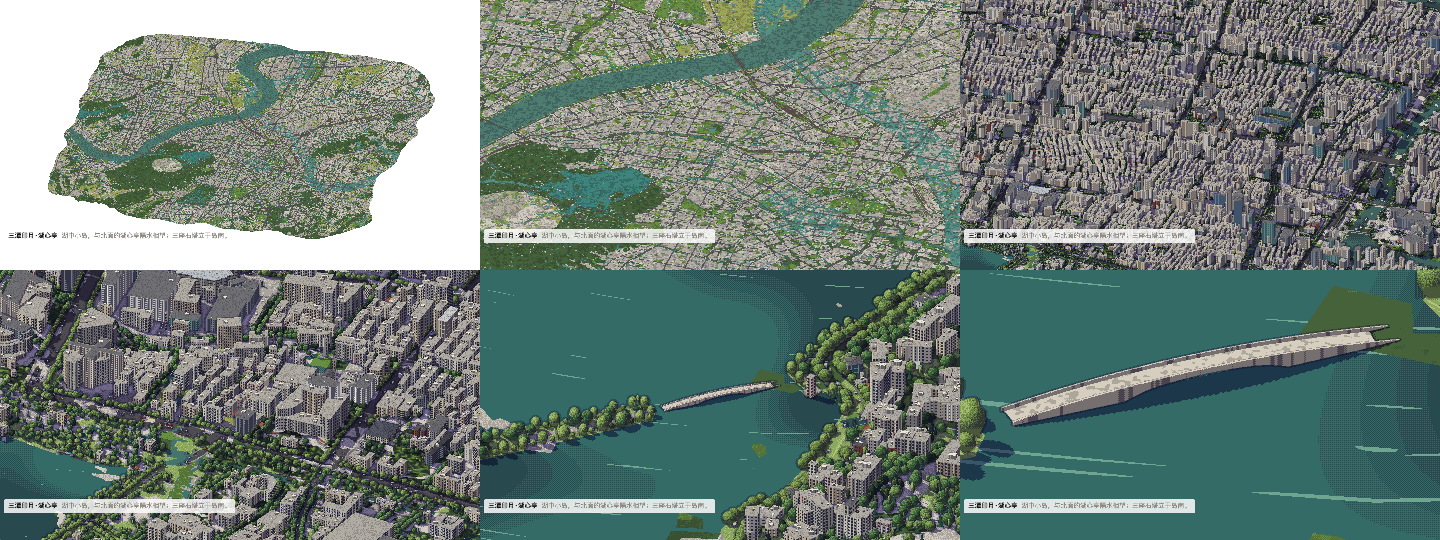
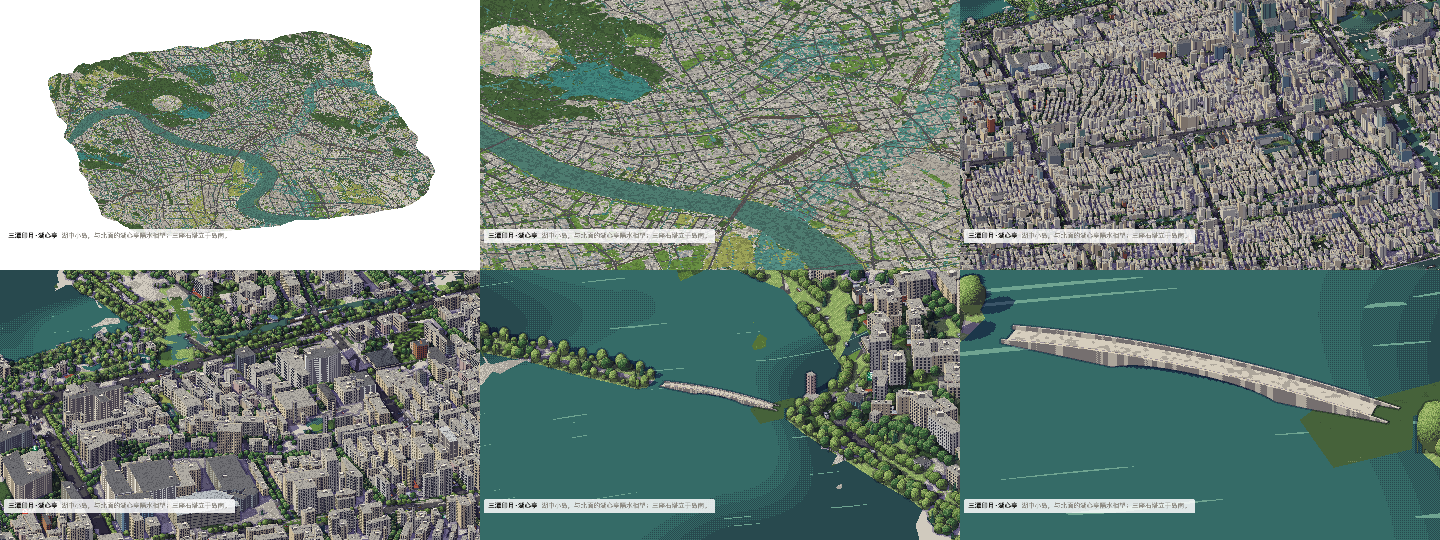
地面镜像修正（D085）：相机的地面项符号反了，N-S 翻转校正；D084 勘误（指南针改回原式）；取景补偿同步；1-05 标准照；测试连带修

diff --git a/app/src/ui.js b/app/src/ui.js
@@ -101,7 +101,7 @@ export function createInterface(app) {
   // it (place); when the camera turns, that spot turns with the picture, so it is found again.
   function follow() {
     if (!anchor) return false;
-    const { x, y } = place(anchor, camera.pitch);
+    const { x, y } = place(anchor, camera.pitch, true);
     camera.x = x;
     camera.y = y;
     return true;
@@ -162,23 +162,26 @@ export function createInterface(app) {
   // Where to fly to for a landmark: a third closer than the table says, and with the landmark's
   // middle, not its foot, at the centre of the frame: the camera centre moves towards the viewer by as
   // much of the ground as the landmark's height takes up on the page.
-  function place(landmark, pitch = Math.PI / 6) {
+  function place(landmark, pitch = Math.PI / 6, keepYaw = false) {
     const focus = landmark.focus ?? 8;
     // the model stands on the ground (bedded into it as the renderer places it), so its middle is that much
     // above the sea; the ground's height is the bake's, good before the tile under it has loaded
     const height = (landmark.ground ?? 0) - (landmark.bed ?? 2) + focus;
     // where the middle of the frame lies from the landmark, in metres along the screen's two axes (across to
     // the right, up the page): nothing for most; a place whose view holds more than the landmark gives it in
-    // the table. v grows down the page, so both the offset and the height move the camera up the page.
+    // the table. The model's middle stands `height` up the page from its ground point (project draws the
+    // ground's far axis up the page), so the camera moves that much farther along it, plus the offset.
     // A landmark may hold a yaw of its own — its standard portrait: the camera stands on that side of it and
-    // the flight turns to look along it. The rest keep the direction the visitor was looking in.
+    // the flight turns to look along it. The rest keep the direction the visitor was looking in. When the
+    // map only follows (a pan or a turn), the visitor's yaw is kept even for a portrait: the standard shot
+    // is where a flight arrives, not where the visitor is held.
     const [du, up] = landmark.view.offset ?? [0, 0];
-    const dv = -up - height * Math.cos(pitch) / Math.sin(pitch);
+    const dv = up + height * Math.cos(pitch) / Math.sin(pitch);
     const portrait = landmark.view.yaw;
-    const yaw = portrait === undefined ? camera.yaw : portrait;
+    const yaw = portrait === undefined || keepYaw ? camera.yaw : portrait;
     const rx = (du + dv) * Math.SQRT1_2, ry = (dv - du) * Math.SQRT1_2;
     const pose = { x: landmark.x + rx * Math.cos(yaw) + ry * Math.sin(yaw), y: landmark.y - rx * Math.sin(yaw) + ry * Math.cos(yaw), scale: Math.min(4, landmark.view.scale * 1.3), pitch };
-    if (portrait !== undefined) pose.yaw = portrait;
+    if (portrait !== undefined && !keepYaw) pose.yaw = portrait;
     return pose;
   }
 
@@ -321,13 +324,13 @@ export function createInterface(app) {
     for (let k = 0; k < points.length; k += 3) {
       if (!Number.isFinite(points[k])) continue;                         // a break between two pieces of a course
       const { u, v } = camera.about(centre.x, centre.y, points[k], points[k + 1]);
-      const s = v * camera.sinPitch - points[k + 2] * camera.cosPitch;   // where it comes on the page, before the zoom
+      const s = -(v * camera.sinPitch + points[k + 2] * camera.cosPitch);   // where it comes on the page, before the zoom
       u0 = Math.min(u0, u); u1 = Math.max(u1, u); s0 = Math.min(s0, s); s1 = Math.max(s1, s);
     }
     const [least, most] = result.line ? [0.004, 1.6] : [0.25, 3];
     const scale = Math.min(most, Math.max(least, Math.min(0.86 * camera.width / (u1 - u0), 0.8 * camera.height / (s1 - s0))));
     // the middle of its extent, not of its own point, at the middle of the frame: the camera moves by that on the page's two axes
-    const du = (u0 + u1) / 2, dv = (s0 + s1) / 2 / camera.sinPitch;
+    const du = (u0 + u1) / 2, dv = -(s0 + s1) / 2 / camera.sinPitch;
     const rx = (du + dv) * Math.SQRT1_2, ry = (dv - du) * Math.SQRT1_2;
     return { x: centre.x + rx * camera.cos + ry * camera.sin, y: centre.y - rx * camera.sin + ry * camera.cos, scale };
   }
@@ -395,8 +398,8 @@ export function createInterface(app) {
     readout.textContent = `${tier} · 1 像素 ≈ ${size} · ${pending ? '载入中' : '就绪'}`;
     // which way is north on the page: the direction of the map's north, seen through the camera
     const a = camera.axes(0, 0), b = camera.axes(0, 1);
-    // 屏幕的 y 向下长（project() 里 v·sinPitch 加在 sy 上），所以北在画面上的投影 dy 不取负
-    const dx = b.u - a.u, dy = (b.v - a.v) * camera.sinPitch, length = Math.hypot(dx, dy) || 1;
+    // 北在画面上的方向：u 直接是屏幕横向，v 走 sy = -v·sinPitch（project），屏幕 y 向下长，故 dy 取负
+    const dx = b.u - a.u, dy = -(b.v - a.v) * camera.sinPitch, length = Math.hypot(dx, dy) || 1;
     compass.clearRect(0, 0, 44, 44);
     compass.strokeStyle = getComputedStyle(document.body).getPropertyValue('--muted');
     compass.fillStyle = getComputedStyle(document.body).getPropertyValue('--ink');

diff --git a/app/src/gl/city-camera.js b/app/src/gl/city-camera.js
@@ -41,13 +41,16 @@ export class CityCamera {
     return { u: (rx - ry) * SQRT1_2, v: (rx + ry) * SQRT1_2 };
   }
 
-  // -> { sx, sy } in low-resolution pixels from the top-left corner, and d: engine depth (larger is nearer)
+  // -> { sx, sy } in low-resolution pixels from the top-left corner, and d: engine depth (larger is nearer).
+  // The ground's v (the camera's far axis, the north-east diagonal at yaw 0) runs UP the page: the farther
+  // along it a point stands, the higher on the screen, the way the ground recedes towards the horizon of a
+  // tilted view. Heights still rise up the page, and the depth of the far axis runs the other way.
   project(x, y, z) {
     const { u, v } = this.axes(x, y);
     return {
       sx: this.width / 2 + u * this.scale,
-      sy: this.height / 2 + (v * this.sinPitch - z * this.cosPitch) * this.scale,
-      d: v * this.cosPitch + z * this.sinPitch,
+      sy: this.height / 2 - (v * this.sinPitch + z * this.cosPitch) * this.scale,
+      d: z * this.sinPitch - v * this.cosPitch,
     };
   }
 
@@ -58,24 +61,24 @@ export class CityCamera {
 
   // the same for another zoom, which is how the point under the cursor is kept in place
   unprojectAt(sx, sy, scale, z = 0) {
-    const u = (sx - this.width / 2) / scale, v = ((sy - this.height / 2) / scale + z * this.cosPitch) / this.sinPitch;
+    const u = (sx - this.width / 2) / scale, v = -(((sy - this.height / 2) / scale + z * this.cosPitch) / this.sinPitch);
     const rx = (u + v) * SQRT1_2, ry = (v - u) * SQRT1_2, c = this.cos, s = this.sin;
     return { x: this.x + rx * c + ry * s, y: this.y - rx * s + ry * c };
   }
 
   // screen position of the world origin, for shaders that project from absolute coordinates
   origin() {
-    const { u, v } = this.axes(0, 0);
-    return [this.width / 2 - u * this.scale, this.height / 2 - v * this.scale];
+    const { sx, sy } = this.project(0, 0, 0);
+    return [sx, sy];
   }
 
   // Engine depth is mapped linearly onto the depth buffer; the range is fitted to what this zoom can see.
-  // A screen point at height z lies at v = ((sy - H/2) / scale + z cos(pitch)) / sin(pitch), so the
+  // A screen point at height z lies at v = -((sy - H/2) / scale + z cos(pitch)) / sin(pitch), so the
   // farthest thing is the ground on the top row and the nearest is the top of the tallest building on
-  // the bottom row, which is farther along by 1 / sin(pitch) times its height in this measure.
+  // the bottom row, which stands sin(pitch) times its height nearer the camera in this measure.
   depthRange(tallest = 420) {
     const ground = this.height / (2 * this.scale * this.sinPitch) * this.cosPitch;   // depth of the ground on the top and bottom rows
-    return [ground + tallest / this.sinPitch, -ground];
+    return [ground + tallest * this.sinPitch, -ground];
   }
 
   // how much the depth changes per pixel row on a flat floor (the reference's GRADIENT_Y)
@@ -111,12 +114,12 @@ uniform vec2 uDepth;    // nearest and farthest engine depth
 vec3 project(vec3 q) {
   float rx = q.x * uCentre.z - q.y * uCentre.w, ry = q.x * uCentre.w + q.y * uCentre.z;
   float u = (rx - ry) * 0.7071067811865476, v = (rx + ry) * 0.7071067811865476;
-  return vec3(uFrame.x * 0.5 + u * uTilt.z, uFrame.y * 0.5 + (v * uTilt.x - q.z * uTilt.y) * uTilt.z, v * uTilt.y + q.z * uTilt.x);
+  return vec3(uFrame.x * 0.5 + u * uTilt.z, uFrame.y * 0.5 - (v * uTilt.x + q.z * uTilt.y) * uTilt.z, q.z * uTilt.x - v * uTilt.y);
 }
 float depthOf(float d) { return clamp((uDepth.x - d) / (uDepth.x - uDepth.y), 0.0, 1.0); }
 vec4 clip(vec3 s) { return vec4(s.x / uFrame.x * 2.0 - 1.0, 1.0 - s.y / uFrame.y * 2.0, depthOf(s.z), 1.0); }
 vec2 unproject(float sx, float sy, float z) {
-  float u = (sx - uFrame.x * 0.5) / uTilt.z, v = ((sy - uFrame.y * 0.5) / uTilt.z + z * uTilt.y) / uTilt.x;
+  float u = (sx - uFrame.x * 0.5) / uTilt.z, v = -(((sy - uFrame.y * 0.5) / uTilt.z + z * uTilt.y) / uTilt.x);
   return vec2((u + v) * 0.7071067811865476, (v - u) * 0.7071067811865476);
 }
 

diff --git a/app/src/render/style.js b/app/src/render/style.js
@@ -10,13 +10,15 @@ export const NEAREST_DEPTH = 1000, FARTHEST_DEPTH = -1000;
 const EDGE_PX = 2.8; // shadeEdges() calls an edge where the depth jumps by 0.28 units, i.e. 2.8 pixels at 10 px per unit
 export const MODES = { plain: 0, rough: 1, gloss: 2, solid: 3 };
 
-// pixel-plays' project() in double precision, for things placed on the CPU (water streaks)
+// pixel-plays' project() in double precision, for things placed on the CPU (water streaks). One departure
+// from the reference: the ground's far axis runs up the page (the way the ground recedes towards the
+// horizon of a tilted view), not down it — the reference's tiny island read fine either way, a real city does not.
 export function project(cam, x, y, z, W, H) {
   const yawC = Math.cos(cam.yaw), yawS = Math.sin(cam.yaw), sinP = Math.sin(cam.pitch), cosP = Math.cos(cam.pitch);
   const rx = x * yawC - y * yawS, ry = x * yawS + y * yawC;
   const u = (rx - ry) / Math.SQRT2, v = (rx + ry) / Math.SQRT2;
   const OX = W / 2 + (cam.panX || 0), OY = H / 2 + (cam.originY || 0) * cam.scale / 10 + (cam.panY || 0);
-  return { sx: OX + u * cam.scale, sy: OY + (v * sinP - z * cosP) * cam.scale, d: v * cosP + z * sinP };
+  return { sx: OX + u * cam.scale, sy: OY - (v * sinP + z * cosP) * cam.scale, d: z * sinP - v * cosP };
 }
 
 export const toUnit = c => [c[0] / 255, c[1] / 255, c[2] / 255];

diff --git a/app/src/gl/shaders.js b/app/src/gl/shaders.js
@@ -17,17 +17,17 @@ vec3 project(vec3 p) {
   float rx = p.x * uAngles.x - p.y * uAngles.y;
   float ry = p.x * uAngles.y + p.y * uAngles.x;
   float u = (rx - ry) * R2I, v = (rx + ry) * R2I;
-  return vec3(uOrigin.x + u * uView.w, uOrigin.y + (v * uAngles.z - p.z * uAngles.w) * uView.w, v * uAngles.w + p.z * uAngles.z);
+  return vec3(uOrigin.x + u * uView.w, uOrigin.y - (v * uAngles.z + p.z * uAngles.w) * uView.w, p.z * uAngles.z - v * uAngles.w);
 }
 // unproject(): world point under a screen position on the flat ground z = 0
 vec2 unproject(float sx, float sy) {
-  float u = (sx - uOrigin.x) / uView.w, v = (sy - uOrigin.y) / (uView.w * uAngles.z);
+  float u = (sx - uOrigin.x) / uView.w, v = -(sy - uOrigin.y) / (uView.w * uAngles.z);
   float rx = (u + v) * R2I, ry = (v - u) * R2I;
   return vec2(rx * uAngles.x + ry * uAngles.y, -rx * uAngles.y + ry * uAngles.x);
 }
 float groundDepth(vec2 w) {
   float rx = w.x * uAngles.x - w.y * uAngles.y, ry = w.x * uAngles.y + w.y * uAngles.x;
-  return (rx + ry) * R2I * uAngles.w;
+  return -(rx + ry) * R2I * uAngles.w;
 }
 float depthOf(float d) { return clamp((uDepth.x - d) / (uDepth.x - uDepth.y), 0.0, 1.0); }
 float depthToD(float z) { return uDepth.x - z * (uDepth.x - uDepth.y); }

diff --git a/app/src/gl/city-common.js b/app/src/gl/city-common.js
@@ -17,12 +17,12 @@ uniform vec2 uDepth;    // nearest and farthest engine depth
 vec3 project(vec3 q) {
   float rx = q.x * uCentre.z - q.y * uCentre.w, ry = q.x * uCentre.w + q.y * uCentre.z;
   float u = (rx - ry) * 0.7071067811865476, v = (rx + ry) * 0.7071067811865476;
-  return vec3(uFrame.x * 0.5 + u * uTilt.z, uFrame.y * 0.5 + (v * uTilt.x - q.z * uTilt.y) * uTilt.z, v * uTilt.y + q.z * uTilt.x);
+  return vec3(uFrame.x * 0.5 + u * uTilt.z, uFrame.y * 0.5 - (v * uTilt.x + q.z * uTilt.y) * uTilt.z, q.z * uTilt.x - v * uTilt.y);
 }
 float depthOf(float d) { return clamp((uDepth.x - d) / (uDepth.x - uDepth.y), 0.0, 1.0); }
 vec4 clip(vec3 s) { return vec4(s.x / uFrame.x * 2.0 - 1.0, 1.0 - s.y / uFrame.y * 2.0, depthOf(s.z), 1.0); }
 vec2 unproject(float sx, float sy, float z) {
-  float u = (sx - uFrame.x * 0.5) / uTilt.z, v = ((sy - uFrame.y * 0.5) / uTilt.z + z * uTilt.y) / uTilt.x;
+  float u = (sx - uFrame.x * 0.5) / uTilt.z, v = -(((sy - uFrame.y * 0.5) / uTilt.z + z * uTilt.y) / uTilt.x);
   return vec2((u + v) * 0.7071067811865476, (v - u) * 0.7071067811865476);
 }
 

diff --git a/app/src/main.js b/app/src/main.js
@@ -307,7 +307,7 @@ async function boot() {
 
   // for tests and the console
   window.__city = {
-    camera, renderer, world, index, gl, ui,
+    camera, renderer, world, manifest: index, gl, ui,
     landmarks, city,
     renderOnce: () => { renderer.present(renderer.render(world)); dirty = false; },
     // how much of a landmark is in the frame and how much of it is hidden behind other things

diff --git a/docs/DECISIONS.md b/docs/DECISIONS.md
@@ -266,4 +266,6 @@
 
 - **D083 2026-11-24 手工模型六座，上海五座杭州一座**（同上）。环球金融中心（`openerTower`：收分塔身，顶部开口两侧各一道斜切的"开瓶器"；492 米到顶、底边 58 米、开口起于约 417 米是公开的，开口宽度与斜切按照片）、金茂大厦（`tierTower`：九层密檐收分加塔尖，420.5 米公开）、上海大剧院（`archTheatre`：玻璃大厅上一片白弧壳，高 40 米公开，弧按照片；地标 25→26 处，新行归外滩组）、徐家汇天主堂（`gothicChurch`：双尖塔、中殿与耳堂，塔到十字架约 59 米公开）、上海邮政总局（`domedHall`：长楼两端青铜绿的穹顶，尺寸按照片）、杭州国际会议中心（`globeHall`：钱江新城"大金球"，高约 90 米、没有公开数字，按照片）。上海给新模型让位的楼 28→56 栋。角色添 grey、silver、dark、slate、verdigris 五个。**两个教训**：套件函数的参数不能遮住模块里的名字（globeHall 的球径一度叫 `ball`，把画球的函数遮了，装配即抛错）；`landmark-views.cjs` 的"本色"颜色表要跟着角色表走（金球第一版 own 0% 是测试不认识 gild/glass_blue，不是画错了）。顺手的工程化：`landmark-views.cjs` 按城市参数化（`landmark-views.cjs [city]`），LINEAR/BUILT_LEAST 按城分表；search/flight 里写死的地标 id 改成按标题解析——往一组里插一行不再挤坏测试。验收：两城 landmark-views 全过（新六座 own 79–96%），search、flight、smoke、cities、data-readers 通过，数据报告两城重出（品牌一节是新的）。
 
-- **D084 2026-11-24 指北针画反了：dy 取负**（你以"坐标不对、东南西北不对"报进来，锚点验证查出来的）。三层验证确认**数据无错**：烘焙地标反算经纬度与 OSM 逐位一致（雷峰塔 way 229726934 厘米级吻合），Esri 卫星图准星正落塔身/桥面（断桥、保俶塔、之江大桥、丽景路叠图同样命中），地形高程对上出版值（北高峰 309/314、玉皇山 235/239、宝石山 74/78，行序北→南正确）。**真 bug 在 `ui.js` 的指南针**：屏幕 y 向下长（`project()` 里 `v·sinPitch` 加在 sy 上），画针时却把 `dy` 取了负——yaw=0 时 N 画在左上，而地图上真北在左下，差约 127°；找位置、飞行的方向感因此全错。修法一行：`dy = (b.v - a.v) * sinPitch`（补注释说明屏幕 y 的朝向）。验证：浏览器里 compass 角与 project() 真北角重合（153.4° = 153.4°），特写 N 落圆心左下。上海同代码同修（东方明珠、上海中心、武康大楼卫星图抽查命中）。**顺带的提醒**：与高德/百度对照坐标差 300–500 米是 GCJ-02，不是数据错（雷峰塔 GCJ ≈ 东 430、南 250 米）。数据无变，只发页面。
+- **D084 2026-11-24 指北针画反了：dy 取负**（勘误：真正的问题是地图镜像，见 D085——本条改针只是让针迁就了镜像；你以"坐标不对、东南西北不对"报进来，锚点验证查出来的）。三层验证确认**数据无错**：烘焙地标反算经纬度与 OSM 逐位一致（雷峰塔 way 229726934 厘米级吻合），Esri 卫星图准星正落塔身/桥面（断桥、保俶塔、之江大桥、丽景路叠图同样命中），地形高程对上出版值（北高峰 309/314、玉皇山 235/239、宝石山 74/78，行序北→南正确）。**真 bug 在 `ui.js` 的指南针**：屏幕 y 向下长（`project()` 里 `v·sinPitch` 加在 sy 上），画针时却把 `dy` 取了负——yaw=0 时 N 画在左上，而地图上真北在左下，差约 127°；找位置、飞行的方向感因此全错。修法一行：`dy = (b.v - a.v) * sinPitch`（补注释说明屏幕 y 的朝向）。验证：浏览器里 compass 角与 project() 真北角重合（153.4° = 153.4°），特写 N 落圆心左下。上海同代码同修（东方明珠、上海中心、武康大楼卫星图抽查命中）。**顺带的提醒**：与高德/百度对照坐标差 300–500 米是 GCJ-02，不是数据错（雷峰塔 GCJ ≈ 东 430、南 250 米）。数据无变，只发页面。
+
+- **D085 2026-11-24 整个地面是南北镜像的：相机的地面项符号反了**（你在 D084 之后接着报"俯瞰南北反了，镜像翻一下就对了"——你是对的，D084 修的是表象）。判据：屏幕四方向的**顺时针循环序**。镜像前的渲染 上=西南、右=东南、下=东北、左=西北，罗盘循环序是逆的——真实相机的投影不可能逆转循环序，这就是镜像的定义。根子：`project()` 的 `sy` 里地面项 `+v·sinPitch` 应为负（地面沿视轴远去时走向画面上方，如同斜视角里大地退向地平线），深度 `d` 的 v 项同理翻号；`heightAt`/`gradientY`/`faceLight` 推导后不变。**D084 勘误**：原指南针公式（dy 取负）对正确的投影本来就是对的——镜像地图错、指南针"错"恰好抵消，我修针等于迁就镜像；本次把指南针改回原式并更正注释。改动四处投影（`city-camera.js`、`city-common.js`、`shaders.js`、`style.js` 的 CPU 版）+ `depthRange`（塔顶就近项 `tallest·sinPitch`）+ `origin()`（直接取 project(0,0,0)，顺带修掉旧式漏乘 sinPitch 的锚定）。取景两处同步（`place()` 的 dv 恰为旧式取负、`goTo` 的页纵轴 s 翻号）——**所有调好的 view.offset/yaw 构图逐像素保留**。验收：N=左上、E=右上（循环序恢复）；保俶塔（真实在北）渲染在湖心左上、雷峰塔（南）右下，与卫星图一致；测试全过（smoke/cities/zoom-anchor/flight/search/mouse/tour/shadows/landmark-views 两城/roam/mobile/home/npm test）。**连带**：shadows 测试的塔挪西 15 米——修正后的深度排序（从西南看）塔会正当挡住树冠，挪开后"塔影落树"的原意保留；`__city.index` 键被 `index()` 函数覆盖的旧账清了（`manifest` 给 roam 用，roam 才第一次跑起来；4 分钟版堆内存平稳，1 分钟版的增长是缓存预热）；hz 1-05 苏堤六桥补标准照 `view.yaw`（D079 先例）——从南面来堤上的树会挡桥，取桥拱读得最清的一侧。**教训**：锚点验证、"内部自洽"检查、甚至指南针对表，都测不出镜像——它们的参照系取自渲染自身；只有"和外部世界对方向"（用户的地理记忆、卫星图的循环序）能抓住它。
